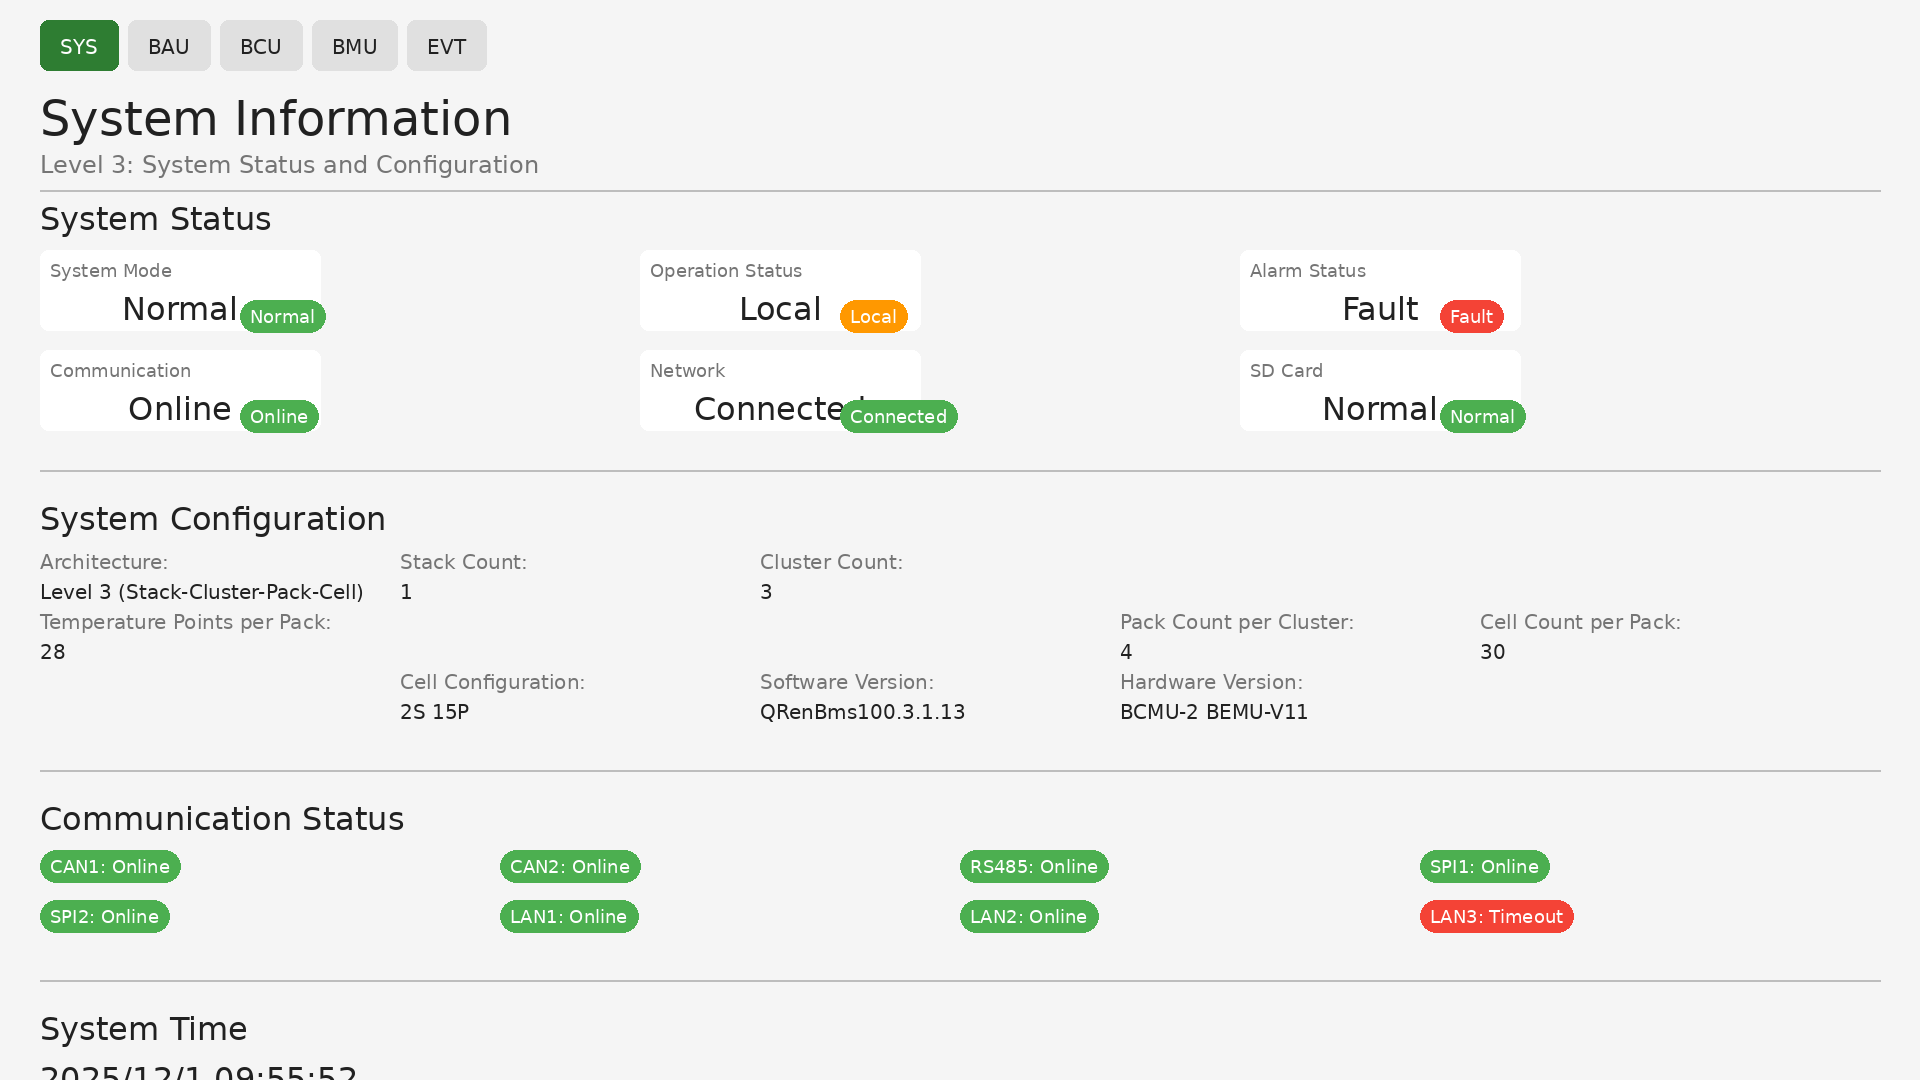
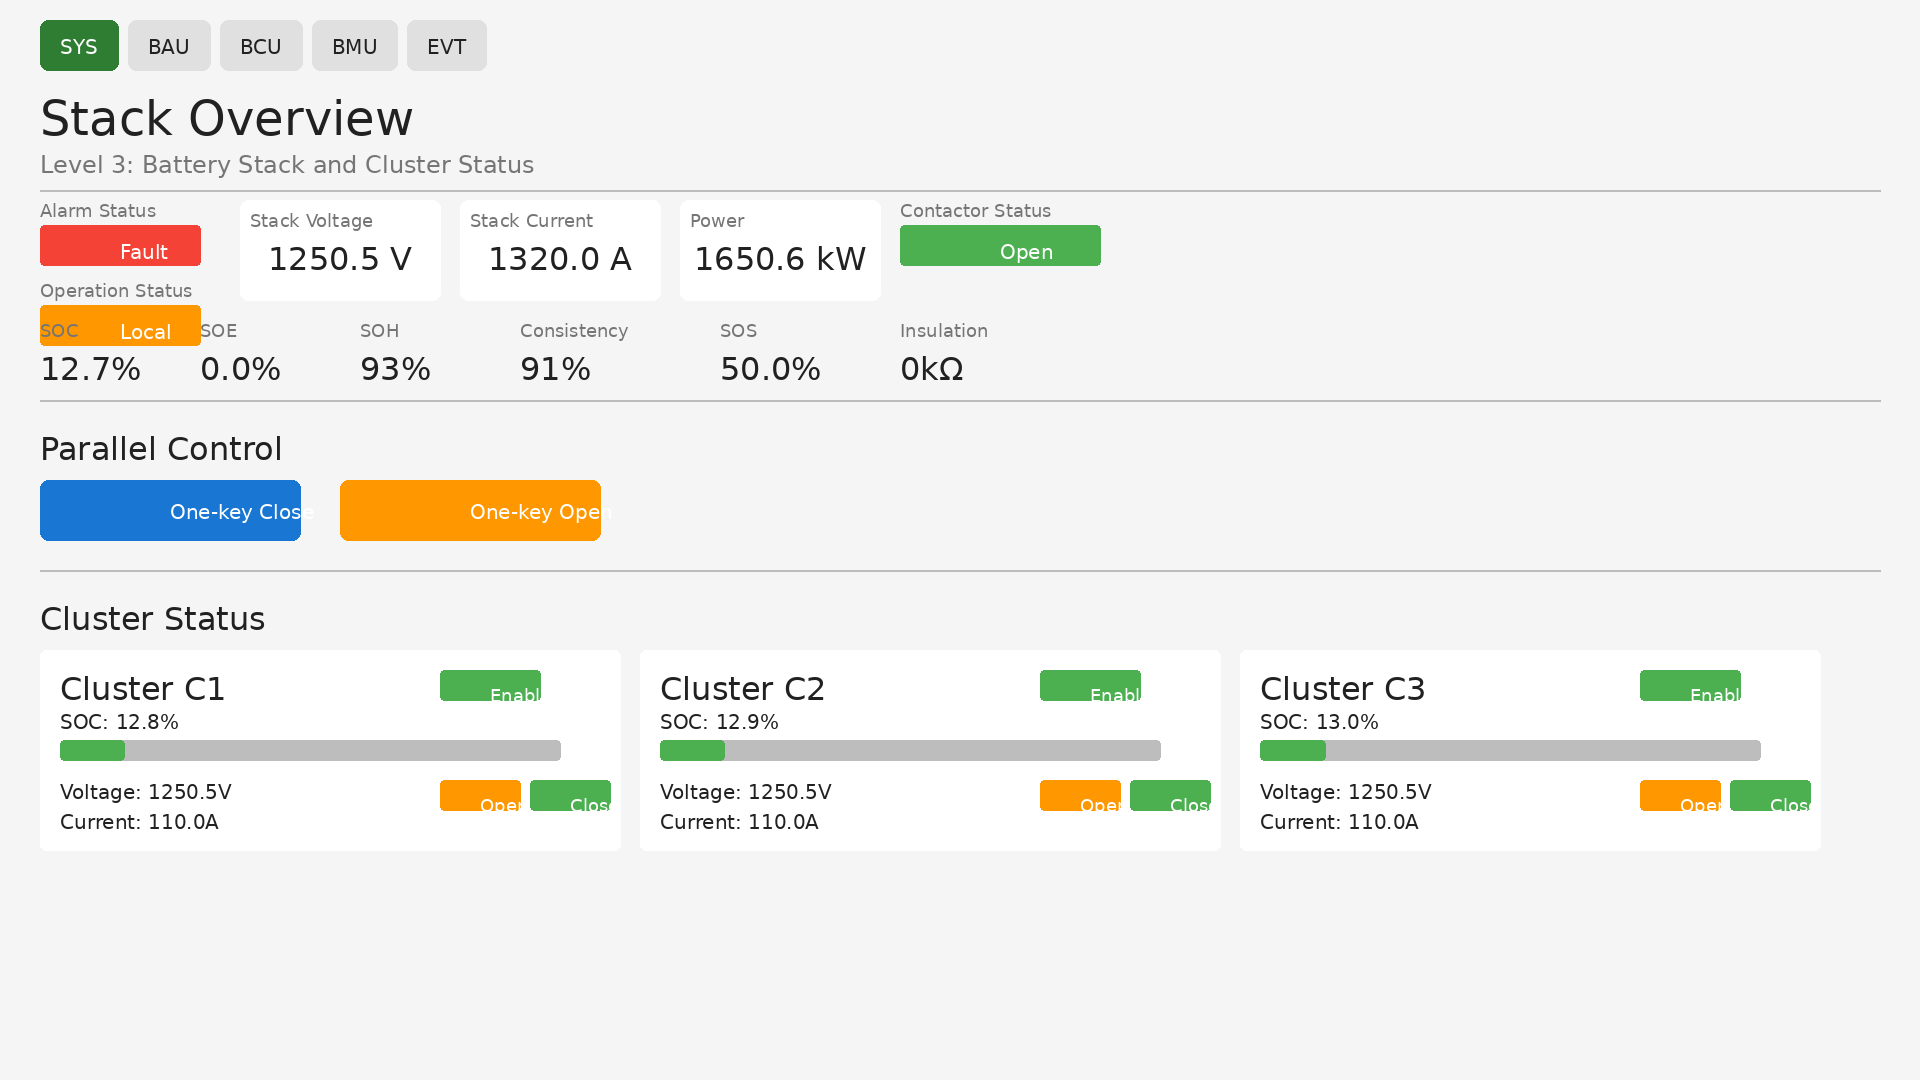
Redesign: SYS pages based on bms1.jpg reference
- Remove redundant status chips (text already shows status)
- Redesign tier3_sys to show Stack Overview:
  * Stack summary (Alarm Status, Operation Status, Voltage, Current, Power, Contactor)
  * Performance indicators (SOC, SOE, SOH, SOS, Consistency, Insulation)
  * Parallel control buttons (One-key Close/Open)
  * Cluster detailed view with status, SOC bar, voltage, current, and control buttons

- Redesign tier2_sys to show Cluster Overview:
  * Cluster summary (same structure as tier3 but for cluster level)
  * Pack status in horizontal view (series connection)
  * Each pack shows: ID, status, SOC bar, voltage, current, control buttons

This matches the layout and functionality shown in bms1.jpg reference screenshot.

diff --git a/designs/create_bms_designs.py b/designs/create_bms_designs.py
@@ -469,102 +469,122 @@ def tier3_cell_temperature():
 
 
 def tier3_sys():
-    """Level 3: System Information Page"""
+    """Level 3: System Overview Page (based on bms1.jpg)"""
     img, draw = canvas()
     
     tabs = ["SYS", "BAU", "BCU", "BMU", "EVT"]
     draw_tabs(draw, tabs, active_idx=0)  # SYS active
     
-    draw_title(draw, "System Information", "Level 3: System Status and Configuration")
+    draw_title(draw, "Stack Overview", "Level 3: Battery Stack and Cluster Status")
     
     y = 200
     
-    # System status
-    draw.text((40, y), "System Status", font=fonts["heading"], fill=COLORS["text"])
-    y += 50
+    # Stack summary section
+    # Left: Status indicators
+    draw.text((40, y), "Alarm Status", font=fonts["small"], fill=COLORS["muted"])
+    draw.rounded_rectangle((40, y + 25, 200, y + 65), radius=4, fill=COLORS["chip_error"])
+    draw.text((120, y + 40), "Fault", font=fonts["body"], fill="#FFFFFF")
     
-    sys_status = [
-        ("System Mode", "Normal", "ok"),
-        ("Operation Status", "Local", "warn"),
-        ("Alarm Status", "Fault", "error"),
-        ("Communication", "Online", "ok"),
-        ("Network", "Connected", "ok"),
-        ("SD Card", "Normal", "ok"),
-    ]
+    draw.text((40, y + 80), "Operation Status", font=fonts["small"], fill=COLORS["muted"])
+    draw.rounded_rectangle((40, y + 105, 200, y + 145), radius=4, fill=COLORS["chip_warn"])
+    draw.text((120, y + 120), "Local", font=fonts["body"], fill="#FFFFFF")
     
-    x = 40
-    row_y = y
-    for idx, (label, state, status) in enumerate(sys_status):
-        if idx > 0 and idx % 3 == 0:
-            x = 40
-            row_y += 100
-        draw_metric_card(draw, x, row_y, label, state, "", width=280, height=80)
-        draw_status_chip(draw, x + 200, row_y + 50, state, status)
-        x += 600
+    # Middle: Main electrical parameters
+    draw_metric_card(draw, 240, y, "Stack Voltage", "1250.5", "V", width=200, height=100)
+    draw_metric_card(draw, 460, y, "Stack Current", "1320.0", "A", width=200, height=100)
     
-    y = row_y + 120
+    # Right: Power and contactor
+    draw_metric_card(draw, 680, y, "Power", "1650.6", "kW", width=200, height=100)
+    draw.text((900, y), "Contactor Status", font=fonts["small"], fill=COLORS["muted"])
+    draw.rounded_rectangle((900, y + 25, 1100, y + 65), radius=4, fill=COLORS["chip_ok"])
+    draw.text((1000, y + 40), "Open", font=fonts["body"], fill="#FFFFFF")
+    
+    # Additional performance indicators
+    y += 120
+    draw.text((40, y), "SOC", font=fonts["small"], fill=COLORS["muted"])
+    draw.text((40, y + 30), "12.7%", font=fonts["heading"], fill=COLORS["text"])
+    
+    draw.text((200, y), "SOE", font=fonts["small"], fill=COLORS["muted"])
+    draw.text((200, y + 30), "0.0%", font=fonts["heading"], fill=COLORS["text"])
+    
+    draw.text((360, y), "SOH", font=fonts["small"], fill=COLORS["muted"])
+    draw.text((360, y + 30), "93%", font=fonts["heading"], fill=COLORS["text"])
+    
+    draw.text((520, y), "Consistency", font=fonts["small"], fill=COLORS["muted"])
+    draw.text((520, y + 30), "91%", font=fonts["heading"], fill=COLORS["text"])
+    
+    draw.text((720, y), "SOS", font=fonts["small"], fill=COLORS["muted"])
+    draw.text((720, y + 30), "50.0%", font=fonts["heading"], fill=COLORS["text"])
+    
+    draw.text((900, y), "Insulation", font=fonts["small"], fill=COLORS["muted"])
+    draw.text((900, y + 30), "0kΩ", font=fonts["heading"], fill=COLORS["text"])
+    
+    y += 80
     draw_divider(draw, y)
     y += 30
     
-    # System configuration
-    draw.text((40, y), "System Configuration", font=fonts["heading"], fill=COLORS["text"])
+    # Parallel control buttons
+    draw.text((40, y), "Parallel Control", font=fonts["heading"], fill=COLORS["text"])
     y += 50
     
-    config_items = [
-        ("Architecture", "Level 3 (Stack-Cluster-Pack-Cell)", 40),
-        ("Stack Count", "1", 400),
-        ("Cluster Count", "3", 760),
-        ("Pack Count per Cluster", "4", 1120),
-        ("Cell Count per Pack", "30", 1480),
-        ("Temperature Points per Pack", "28", 40),
-        ("Cell Configuration", "2S 15P", 400),
-        ("Software Version", "QRenBms100.3.1.13", 760),
-        ("Hardware Version", "BCMU-2 BEMU-V11", 1120),
-    ]
+    # One-key close button
+    draw.rounded_rectangle((40, y, 300, y + 60), radius=8, fill=COLORS["accent"])
+    draw.text((170, y + 20), "One-key Close", font=fonts["body"], fill="#FFFFFF")
     
-    row_y = y
-    for idx, (label, value, x) in enumerate(config_items):
-        if idx > 0 and idx % 3 == 0:
-            row_y += 60
-        draw.text((x, row_y), f"{label}:", font=fonts["body"], fill=COLORS["muted"])
-        draw.text((x, row_y + 30), value, font=fonts["body"], fill=COLORS["text"])
+    # One-key open button
+    draw.rounded_rectangle((340, y, 600, y + 60), radius=8, fill=COLORS["chip_warn"])
+    draw.text((470, y + 20), "One-key Open", font=fonts["body"], fill="#FFFFFF")
     
-    y = row_y + 100
+    y += 90
     draw_divider(draw, y)
     y += 30
     
-    # Communication status
-    draw.text((40, y), "Communication Status", font=fonts["heading"], fill=COLORS["text"])
+    # Cluster detailed view
+    draw.text((40, y), "Cluster Status", font=fonts["heading"], fill=COLORS["text"])
     y += 50
     
-    comm_status = [
-        ("CAN1", "Online", "ok"),
-        ("CAN2", "Online", "ok"),
-        ("RS485", "Online", "ok"),
-        ("SPI1", "Online", "ok"),
-        ("SPI2", "Online", "ok"),
-        ("LAN1", "Online", "ok"),
-        ("LAN2", "Online", "ok"),
-        ("LAN3", "Timeout", "error"),
-    ]
+    # Display clusters (C1, C2, C3)
+    cluster_count = 3
+    cluster_width = 580
+    cluster_height = 200
+    start_x = 40
     
-    x = 40
-    row_y = y
-    for idx, (label, state, status) in enumerate(comm_status):
-        if idx > 0 and idx % 4 == 0:
-            x = 40
-            row_y += 50
-        draw_status_chip(draw, x, row_y, f"{label}: {state}", status)
-        x += 460
-    
-    y = row_y + 80
-    draw_divider(draw, y)
-    y += 30
-    
-    # System time
-    draw.text((40, y), "System Time", font=fonts["heading"], fill=COLORS["text"])
-    y += 50
-    draw.text((40, y), "2025/12/1 09:55:52", font=fonts["heading"], fill=COLORS["text"])
+    for idx in range(cluster_count):
+        x = start_x + idx * (cluster_width + 20)
+        if x + cluster_width > WIDTH - 40:
+            break
+        
+        # Cluster card
+        draw.rounded_rectangle((x, y, x + cluster_width, y + cluster_height), radius=6, fill=COLORS["card_bg"])
+        
+        # Cluster ID
+        draw.text((x + 20, y + 20), f"Cluster C{idx+1}", font=fonts["heading"], fill=COLORS["text"])
+        
+        # Status indicators
+        draw.rounded_rectangle((x + 400, y + 20, x + 500, y + 50), radius=4, fill=COLORS["chip_ok"])
+        draw.text((x + 450, y + 35), "Enabled", font=fonts["small"], fill="#FFFFFF")
+        
+        # SOC percentage and bar
+        soc = 12.8 + idx * 0.1
+        draw.text((x + 20, y + 60), f"SOC: {soc:.1f}%", font=fonts["body"], fill=COLORS["text"])
+        bar_x = x + 20
+        bar_y = y + 90
+        bar_width = 500
+        bar_height = 20
+        draw.rounded_rectangle((bar_x, bar_y, bar_x + bar_width, bar_y + bar_height), radius=4, fill=COLORS["line"])
+        fill_width = bar_width * (soc / 100)
+        draw.rounded_rectangle((bar_x, bar_y, bar_x + fill_width, bar_y + bar_height), radius=4, fill=COLORS["chip_ok"])
+        
+        # Voltage and Current
+        draw.text((x + 20, y + 130), "Voltage: 1250.5V", font=fonts["body"], fill=COLORS["text"])
+        draw.text((x + 20, y + 160), "Current: 110.0A", font=fonts["body"], fill=COLORS["text"])
+        
+        # Control buttons
+        draw.rounded_rectangle((x + 400, y + 130, x + 480, y + 160), radius=4, fill=COLORS["chip_warn"])
+        draw.text((x + 440, y + 145), "Open", font=fonts["small"], fill="#FFFFFF")
+        
+        draw.rounded_rectangle((x + 490, y + 130, x + 570, y + 160), radius=4, fill=COLORS["chip_ok"])
+        draw.text((x + 530, y + 145), "Close", font=fonts["small"], fill="#FFFFFF")
     
     img.save(OUTPUT_DIR / "tier3_sys.png")
     print(f"Generated: {OUTPUT_DIR / 'tier3_sys.png'}")
@@ -947,101 +967,107 @@ def tier2_cell_temperature():
 
 
 def tier2_sys():
-    """Level 2: System Information Page"""
+    """Level 2: Cluster Overview Page (based on bms1.jpg)"""
     img, draw = canvas()
     
     tabs = ["SYS", "BCU", "BMU", "EVT"]
     draw_tabs(draw, tabs, active_idx=0)  # SYS active
     
-    draw_title(draw, "System Information", "Level 2: System Status and Configuration")
+    draw_title(draw, "Cluster Overview", "Level 2: Battery Cluster Status")
     
     y = 200
     
-    # System status
-    draw.text((40, y), "System Status", font=fonts["heading"], fill=COLORS["text"])
-    y += 50
+    # Cluster summary section
+    # Left: Status indicators
+    draw.text((40, y), "Alarm Status", font=fonts["small"], fill=COLORS["muted"])
+    draw.rounded_rectangle((40, y + 25, 200, y + 65), radius=4, fill=COLORS["chip_error"])
+    draw.text((120, y + 40), "Fault", font=fonts["body"], fill="#FFFFFF")
     
-    sys_status = [
-        ("System Mode", "Normal", "ok"),
-        ("Operation Status", "Local", "warn"),
-        ("Alarm Status", "Fault", "error"),
-        ("Communication", "Online", "ok"),
-        ("Network", "Connected", "ok"),
-        ("SD Card", "Normal", "ok"),
-    ]
+    draw.text((40, y + 80), "Operation Status", font=fonts["small"], fill=COLORS["muted"])
+    draw.rounded_rectangle((40, y + 105, 200, y + 145), radius=4, fill=COLORS["chip_warn"])
+    draw.text((120, y + 120), "Local", font=fonts["body"], fill="#FFFFFF")
     
-    x = 40
-    row_y = y
-    for idx, (label, state, status) in enumerate(sys_status):
-        if idx > 0 and idx % 3 == 0:
-            x = 40
-            row_y += 100
-        draw_metric_card(draw, x, row_y, label, state, "", width=280, height=80)
-        draw_status_chip(draw, x + 200, row_y + 50, state, status)
-        x += 600
+    # Middle: Main electrical parameters
+    draw_metric_card(draw, 240, y, "Cluster Voltage", "1250.5", "V", width=200, height=100)
+    draw_metric_card(draw, 460, y, "Cluster Current", "1320.0", "A", width=200, height=100)
     
-    y = row_y + 120
+    # Right: Power and contactor
+    draw_metric_card(draw, 680, y, "Power", "1650.6", "kW", width=200, height=100)
+    draw.text((900, y), "Contactor Status", font=fonts["small"], fill=COLORS["muted"])
+    draw.rounded_rectangle((900, y + 25, 1100, y + 65), radius=4, fill=COLORS["chip_ok"])
+    draw.text((1000, y + 40), "Closed", font=fonts["body"], fill="#FFFFFF")
+    
+    # Additional performance indicators
+    y += 120
+    draw.text((40, y), "SOC", font=fonts["small"], fill=COLORS["muted"])
+    draw.text((40, y + 30), "12.7%", font=fonts["heading"], fill=COLORS["text"])
+    
+    draw.text((200, y), "SOE", font=fonts["small"], fill=COLORS["muted"])
+    draw.text((200, y + 30), "0.0%", font=fonts["heading"], fill=COLORS["text"])
+    
+    draw.text((360, y), "SOH", font=fonts["small"], fill=COLORS["muted"])
+    draw.text((360, y + 30), "93%", font=fonts["heading"], fill=COLORS["text"])
+    
+    draw.text((520, y), "Consistency", font=fonts["small"], fill=COLORS["muted"])
+    draw.text((520, y + 30), "91%", font=fonts["heading"], fill=COLORS["text"])
+    
+    draw.text((720, y), "SOS", font=fonts["small"], fill=COLORS["muted"])
+    draw.text((720, y + 30), "50.0%", font=fonts["heading"], fill=COLORS["text"])
+    
+    draw.text((900, y), "Insulation", font=fonts["small"], fill=COLORS["muted"])
+    draw.text((900, y + 30), "980kΩ", font=fonts["heading"], fill=COLORS["text"])
+    
+    y += 80
     draw_divider(draw, y)
     y += 30
     
-    # System configuration
-    draw.text((40, y), "System Configuration", font=fonts["heading"], fill=COLORS["text"])
+    # Pack status (series connection)
+    draw.text((40, y), "Pack Status (Series Connection)", font=fonts["heading"], fill=COLORS["text"])
     y += 50
     
-    config_items = [
-        ("Architecture", "Level 2 (Cluster-Pack-Cell)", 40),
-        ("Cluster Count", "1", 400),
-        ("Pack Count", "10", 760),
-        ("Cell Count per Pack", "30", 1120),
-        ("Temperature Points per Pack", "8", 1480),
-        ("Cell Configuration", "2S 15P", 400),
-        ("Software Version", "QRenBms100.3.1.13", 760),
-        ("Hardware Version", "BCMU-2 BEMU-V11", 1120),
-    ]
+    # Display packs in a horizontal scrollable view
+    pack_count = 8
+    pack_width = 220
+    pack_height = 180
+    start_x = 40
     
-    row_y = y
-    for idx, (label, value, x) in enumerate(config_items):
-        if idx > 0 and idx % 3 == 0:
-            row_y += 60
-        draw.text((x, row_y), f"{label}:", font=fonts["body"], fill=COLORS["muted"])
-        draw.text((x, row_y + 30), value, font=fonts["body"], fill=COLORS["text"])
-    
-    y = row_y + 100
-    draw_divider(draw, y)
-    y += 30
-    
-    # Communication status
-    draw.text((40, y), "Communication Status", font=fonts["heading"], fill=COLORS["text"])
-    y += 50
-    
-    comm_status = [
-        ("CAN1", "Online", "ok"),
-        ("CAN2", "Online", "ok"),
-        ("RS485", "Online", "ok"),
-        ("SPI1", "Online", "ok"),
-        ("SPI2", "Online", "ok"),
-        ("LAN1", "Online", "ok"),
-        ("LAN2", "Online", "ok"),
-        ("LAN3", "Timeout", "error"),
-    ]
-    
-    x = 40
-    row_y = y
-    for idx, (label, state, status) in enumerate(comm_status):
-        if idx > 0 and idx % 4 == 0:
-            x = 40
-            row_y += 50
-        draw_status_chip(draw, x, row_y, f"{label}: {state}", status)
-        x += 460
-    
-    y = row_y + 80
-    draw_divider(draw, y)
-    y += 30
-    
-    # System time
-    draw.text((40, y), "System Time", font=fonts["heading"], fill=COLORS["text"])
-    y += 50
-    draw.text((40, y), "2025/12/1 09:55:52", font=fonts["heading"], fill=COLORS["text"])
+    for idx in range(pack_count):
+        x = start_x + idx * (pack_width + 10)
+        if x + pack_width > WIDTH - 40:
+            break
+        
+        # Pack card
+        draw.rounded_rectangle((x, y, x + pack_width, y + pack_height), radius=6, fill=COLORS["card_bg"])
+        
+        # Pack ID
+        draw.text((x + 10, y + 10), f"Pack {idx+1:02d}", font=fonts["body"], fill=COLORS["text"])
+        
+        # Status indicator
+        draw.rounded_rectangle((x + 150, y + 10, x + 210, y + 40), radius=4, fill=COLORS["chip_ok"])
+        draw.text((x + 180, y + 25), "Enabled", font=fonts["tiny"], fill="#FFFFFF")
+        
+        # SOC percentage and bar
+        soc = 12.8 + idx * 0.1
+        draw.text((x + 10, y + 50), f"SOC: {soc:.1f}%", font=fonts["small"], fill=COLORS["text"])
+        bar_x = x + 10
+        bar_y = y + 75
+        bar_width = 200
+        bar_height = 15
+        draw.rounded_rectangle((bar_x, bar_y, bar_x + bar_width, bar_y + bar_height), radius=3, fill=COLORS["line"])
+        fill_width = bar_width * (soc / 100)
+        draw.rounded_rectangle((bar_x, bar_y, bar_x + fill_width, bar_y + bar_height), radius=3, fill=COLORS["chip_ok"])
+        
+        # Voltage and Current
+        voltage = 125.0 - idx * 0.1
+        draw.text((x + 10, y + 100), f"Voltage: {voltage:.1f}V", font=fonts["tiny"], fill=COLORS["text"])
+        draw.text((x + 10, y + 120), "Current: 110.0A", font=fonts["tiny"], fill=COLORS["text"])
+        
+        # Control buttons
+        draw.rounded_rectangle((x + 10, y + 145, x + 100, y + 170), radius=3, fill=COLORS["chip_warn"])
+        draw.text((x + 55, y + 157), "Open", font=fonts["tiny"], fill="#FFFFFF")
+        
+        draw.rounded_rectangle((x + 110, y + 145, x + 200, y + 170), radius=3, fill=COLORS["chip_ok"])
+        draw.text((x + 155, y + 157), "Close", font=fonts["tiny"], fill="#FFFFFF")
     
     img.save(OUTPUT_DIR / "tier2_sys.png")
     print(f"Generated: {OUTPUT_DIR / 'tier2_sys.png'}")
